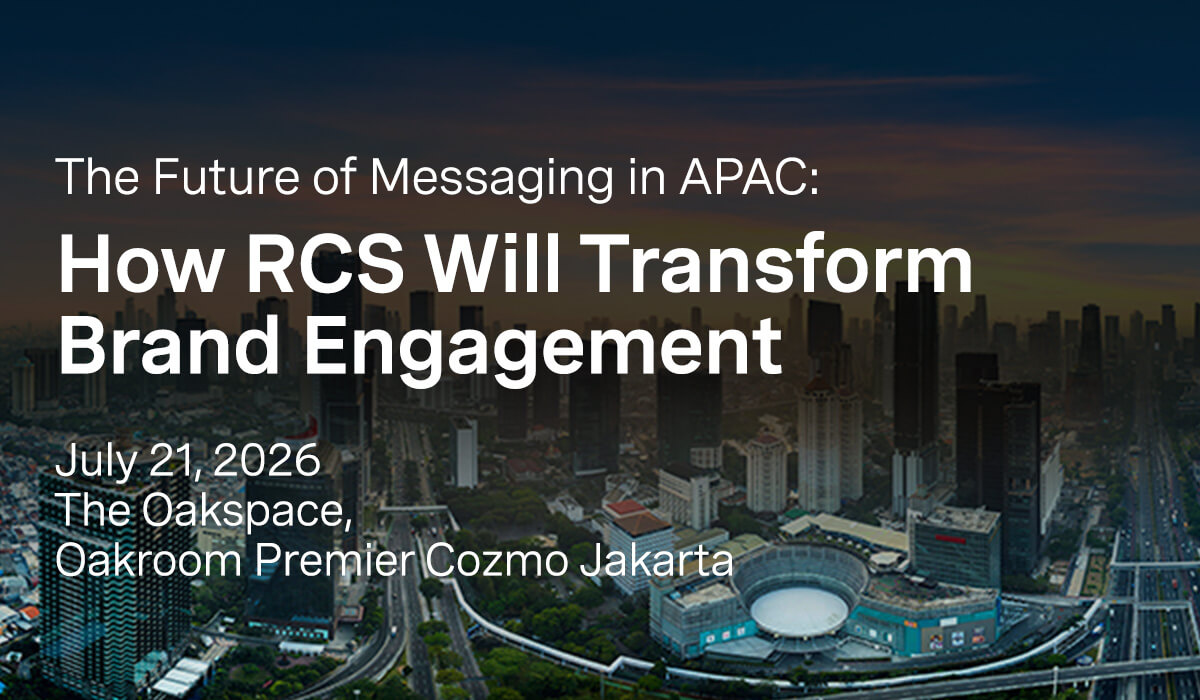
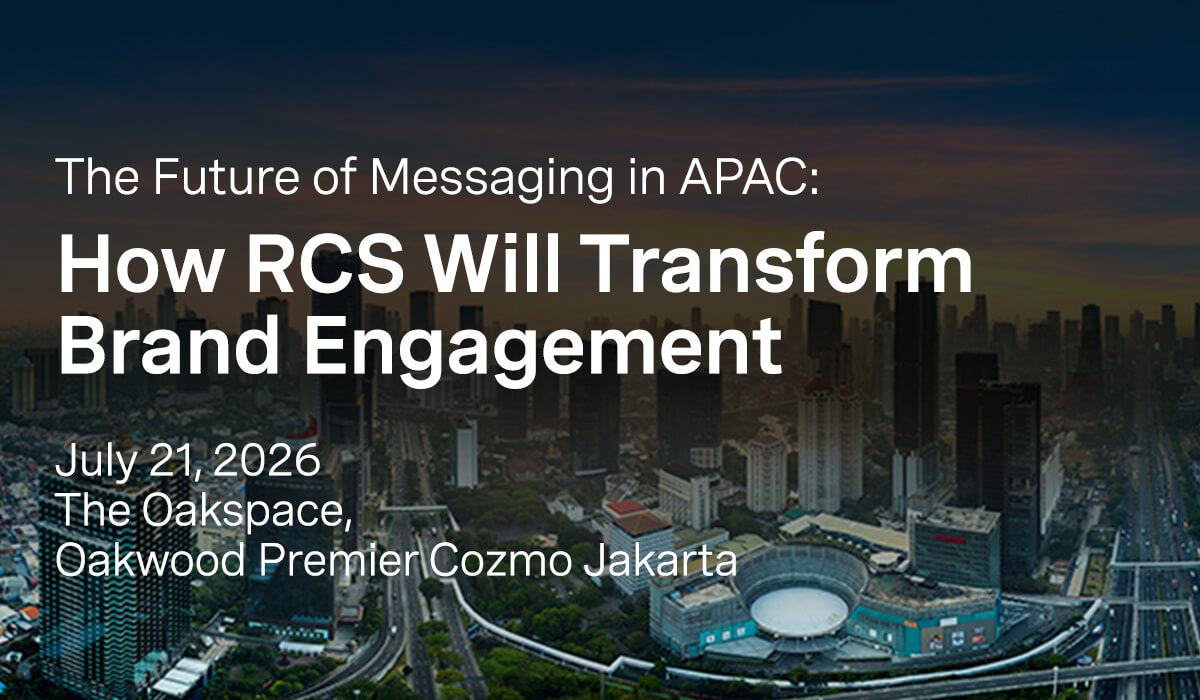
4 days

Changed region(s): [[0.0925, 0.78, 0.6167, 0.84]]

diff --git a/index.html b/index.html
@@ -1,4 +1,4 @@
-<!doctype html><html lang="en" dir="ltr" xmlns="http://www.w3.org/1999/xhtml" xmlns:v="urn:schemas-microsoft-com:vml" xmlns:o="urn:schemas-microsoft-com:office:office"><head><title>2 weeks reminder</title><!--[if !mso]><!--><meta http-equiv="X-UA-Compatible" content="IE=edge"><!--<![endif]--><meta http-equiv="Content-Type" content="text/html; charset=UTF-8"><meta name="viewport" content="width=device-width, initial-scale=1"><style type="text/css">
+<!doctype html><html lang="en" dir="ltr" xmlns="http://www.w3.org/1999/xhtml" xmlns:v="urn:schemas-microsoft-com:vml" xmlns:o="urn:schemas-microsoft-com:office:office"><head><title>Reminder</title><!--[if !mso]><!--><meta http-equiv="X-UA-Compatible" content="IE=edge"><!--<![endif]--><meta http-equiv="Content-Type" content="text/html; charset=UTF-8"><meta name="viewport" content="width=device-width, initial-scale=1"><style type="text/css">
       #outlook a { padding:0; }
       body { margin:0;padding:0;-webkit-text-size-adjust:100%;-ms-text-size-adjust:100%; }
       table, td { border-collapse:collapse;mso-table-lspace:0pt;mso-table-rspace:0pt; }
@@ -122,7 +122,7 @@
           padding-right: 20px !important;
         }
       }
-    </style><meta name="color-scheme" content="light"><meta name="supported-color-schemes" content="light"></head><body class="body-wrapper" style="word-spacing:normal;background-color:#ffffff;"> <div aria-label="2 weeks reminder" aria-roledescription="email" role="article" lang="en" dir="ltr" style="word-spacing:normal;background-color:#ffffff;"> <!--[if mso | IE]><table align="center" border="0" cellpadding="0" cellspacing="0" class="" role="presentation" style="width:600px;" width="600" ><tr><td style="line-height:0px;font-size:0px;mso-line-height-rule:exactly;"><![endif]--> <div style="margin:0px auto;max-width:600px;"> <table align="center" border="0" cellpadding="0" cellspacing="0" role="presentation" style="width:100%;"> <tbody> <tr> <td style="direction:ltr;font-size:0px;padding:0;text-align:center;"> <!--[if mso | IE]><table role="presentation" border="0" cellpadding="0" cellspacing="0"><tr><td class="" style="vertical-align:top;width:600px;" ><![endif]--> <div class="mj-column-per-100 mj-outlook-group-fix" style="font-size:0px;text-align:left;direction:ltr;display:inline-block;vertical-align:top;width:100%;"> <table border="0" cellpadding="0" cellspacing="0" role="presentation" width="100%"> <tbody> <tr> <td style="vertical-align:top;padding:0;"> <table border="0" cellpadding="0" cellspacing="0" role="presentation" width="100%"> <tbody> <tr> <td align="right" style="font-size:0px;padding:10px;word-break:break-word;"> <div style="font-family:Roboto, sans-serif;font-size:12px;line-height:22px;text-align:right;color:#A1A1A1;">No images? <webversion style="color: #a1a1a1;
+    </style><meta name="color-scheme" content="light"><meta name="supported-color-schemes" content="light"></head><body class="body-wrapper" style="word-spacing:normal;background-color:#ffffff;"> <div aria-label="Reminder" aria-roledescription="email" role="article" lang="en" dir="ltr" style="word-spacing:normal;background-color:#ffffff;"> <!--[if mso | IE]><table align="center" border="0" cellpadding="0" cellspacing="0" class="" role="presentation" style="width:600px;" width="600" ><tr><td style="line-height:0px;font-size:0px;mso-line-height-rule:exactly;"><![endif]--> <div style="margin:0px auto;max-width:600px;"> <table align="center" border="0" cellpadding="0" cellspacing="0" role="presentation" style="width:100%;"> <tbody> <tr> <td style="direction:ltr;font-size:0px;padding:0;text-align:center;"> <!--[if mso | IE]><table role="presentation" border="0" cellpadding="0" cellspacing="0"><tr><td class="" style="vertical-align:top;width:600px;" ><![endif]--> <div class="mj-column-per-100 mj-outlook-group-fix" style="font-size:0px;text-align:left;direction:ltr;display:inline-block;vertical-align:top;width:100%;"> <table border="0" cellpadding="0" cellspacing="0" role="presentation" width="100%"> <tbody> <tr> <td style="vertical-align:top;padding:0;"> <table border="0" cellpadding="0" cellspacing="0" role="presentation" width="100%"> <tbody> <tr> <td align="right" style="font-size:0px;padding:10px;word-break:break-word;"> <div style="font-family:Roboto, sans-serif;font-size:12px;line-height:22px;text-align:right;color:#A1A1A1;">No images? <webversion style="color: #a1a1a1;
               text-decoration: underline;
               font-family: Roboto, sans-serif;
               font-size: 12px;
@@ -136,7 +136,7 @@
                 line-height: 22px;
                 color: #a1a1a1;
                 text-decoration: underline;
-                cursor: pointer;">Click here</span> </webversion></div> </td> </tr> </tbody> </table> </td> </tr> </tbody> </table> </div> <!--[if mso | IE]></td></tr></table><![endif]--> </td> </tr> </tbody> </table> </div> <!--[if mso | IE]></td></tr></table><table align="center" border="0" cellpadding="0" cellspacing="0" class="" role="presentation" style="width:600px;" width="600" ><tr><td style="line-height:0px;font-size:0px;mso-line-height-rule:exactly;"><![endif]--> <div style="margin:0px auto;max-width:600px;"> <table align="center" border="0" cellpadding="0" cellspacing="0" role="presentation" style="width:100%;"> <tbody> <tr> <td style="direction:ltr;font-size:0px;padding:0;text-align:center;"> <!--[if mso | IE]><table role="presentation" border="0" cellpadding="0" cellspacing="0"><tr><td class="" style="vertical-align:top;width:600px;" ><![endif]--> <div class="mj-column-per-100 mj-outlook-group-fix" style="font-size:0px;text-align:left;direction:ltr;display:inline-block;vertical-align:top;width:100%;"> <table border="0" cellpadding="0" cellspacing="0" role="presentation" width="100%"> <tbody> <tr> <td style="vertical-align:top;padding:0;"> <table border="0" cellpadding="0" cellspacing="0" role="presentation" width="100%"> <tbody> <tr> <td align="center" style="font-size:0px;padding:0;word-break:break-word;"> <table border="0" cellpadding="0" cellspacing="0" role="presentation" style="border-collapse:collapse;border-spacing:0px;"> <tbody> <tr> <td style="width:600px;"> <a href="https://indosat.vonagefuturesecure.com/" target="_blank"> <img alt="How RCS will transform Brand engagement" src="images/21Header.jpg" style="border:0;display:block;outline:none;text-decoration:none;height:auto;width:100%;font-size:13px;" width="600" height="auto"> </a> </td> </tr> </tbody> </table> </td> </tr> </tbody> </table> </td> </tr> </tbody> </table> </div> <!--[if mso | IE]></td></tr></table><![endif]--> </td> </tr> </tbody> </table> </div> <!--[if mso | IE]></td></tr></table><table align="center" border="0" cellpadding="0" cellspacing="0" class="" role="presentation" style="width:600px;" width="600" ><tr><td style="line-height:0px;font-size:0px;mso-line-height-rule:exactly;"><![endif]--> <div style="margin:0px auto;max-width:600px;"> <table align="center" border="0" cellpadding="0" cellspacing="0" role="presentation" style="width:100%;"> <tbody> <tr> <td style="direction:ltr;font-size:0px;padding:0;text-align:center;"> <!--[if mso | IE]><table role="presentation" border="0" cellpadding="0" cellspacing="0"><tr><td class="fluid-padding-outlook" style="vertical-align:top;width:600px;" ><![endif]--> <div class="fluid-padding mj-column-per-100 mj-outlook-group-fix" style="font-size:0px;text-align:left;direction:ltr;display:inline-block;vertical-align:top;width:100%;"> <table border="0" cellpadding="0" cellspacing="0" role="presentation" width="100%"> <tbody> <tr> <td style="vertical-align:top;padding:60px 30px 0 30px;"> <table border="0" cellpadding="0" cellspacing="0" role="presentation" width="100%"> <tbody> <tr> <td align="left" style="font-size:0px;padding:0;padding-bottom:30px;word-break:break-word;"> <div style="font-family:Roboto, sans-serif;font-size:16px;line-height:26px;text-align:left;color:#000000;">Dear [firstname,fallback=],</div> </td> </tr> <tr> <td align="left" style="font-size:0px;padding:0;padding-bottom:30px;word-break:break-word;"> <div style="font-family:Roboto, sans-serif;font-size:16px;line-height:26px;text-align:left;color:#000000;">Just a reminder that <b> The Future of Messaging in APAC: How RCS Will Transform Brand Engagement </b> is happening in <b>two weeks</b>.</div> </td> </tr> <tr> <td align="left" style="font-size:0px;padding:0;padding-bottom:30px;word-break:break-word;"> <div style="font-family:Roboto, sans-serif;font-size:16px;line-height:36px;text-align:left;color:#000000;"><b>Event details:</b><br> 📅&nbsp;&nbsp;21 July 2026<br> 🕙&nbsp;&nbsp;10:00 AM - 3:00 PM<br> 📍&nbsp;&nbsp;The Oakspace, Oakroom Premier Cozmo Jakarta</div> </td> </tr> <tr> <td align="left" style="font-size:0px;padding:0;word-break:break-word;"> <div style="font-family:Roboto, sans-serif;font-size:16px;font-weight:bold;line-height:26px;text-align:left;color:#000000;">This invite-only event will cover:</div> </td> </tr> </tbody> </table> </td> </tr> </tbody> </table> </div> <!--[if mso | IE]></td></tr></table><![endif]--> </td> </tr> </tbody> </table> </div> <!--[if mso | IE]></td></tr></table><table align="center" border="0" cellpadding="0" cellspacing="0" class="" role="presentation" style="width:600px;" width="600" ><tr><td style="line-height:0px;font-size:0px;mso-line-height-rule:exactly;"><![endif]--> <div style="margin:0px auto;max-width:600px;"> <table align="center" border="0" cellpadding="0" cellspacing="0" role="presentation" style="width:100%;"> <tbody> <tr> <td style="direction:ltr;font-size:0px;padding:0;text-align:center;"> <!--[if mso | IE]><table role="presentation" border="0" cellpadding="0" cellspacing="0"><tr><td class="fluid-padding-outlook" style="vertical-align:top;width:600px;" ><![endif]--> <div class="fluid-padding mj-column-per-100 mj-outlook-group-fix" style="font-size:0px;text-align:left;direction:ltr;display:inline-block;vertical-align:top;width:100%;"> <table border="0" cellpadding="0" cellspacing="0" role="presentation" width="100%"> <tbody> <tr> <td style="vertical-align:top;padding:0 30px 30px 30px;"> <table border="0" cellpadding="0" cellspacing="0" role="presentation" width="100%"> <tbody> <tr> <td align="left" style="font-size:0px;padding:0;word-break:break-word;"> <div style="font-family:Helvetica, Roboto, sans-serif;font-size:16px;line-height:22px;text-align:left;color:#000000;"><mj-table style="width: 100%;
+                cursor: pointer;">Click here</span> </webversion></div> </td> </tr> </tbody> </table> </td> </tr> </tbody> </table> </div> <!--[if mso | IE]></td></tr></table><![endif]--> </td> </tr> </tbody> </table> </div> <!--[if mso | IE]></td></tr></table><table align="center" border="0" cellpadding="0" cellspacing="0" class="" role="presentation" style="width:600px;" width="600" ><tr><td style="line-height:0px;font-size:0px;mso-line-height-rule:exactly;"><![endif]--> <div style="margin:0px auto;max-width:600px;"> <table align="center" border="0" cellpadding="0" cellspacing="0" role="presentation" style="width:100%;"> <tbody> <tr> <td style="direction:ltr;font-size:0px;padding:0;text-align:center;"> <!--[if mso | IE]><table role="presentation" border="0" cellpadding="0" cellspacing="0"><tr><td class="" style="vertical-align:top;width:600px;" ><![endif]--> <div class="mj-column-per-100 mj-outlook-group-fix" style="font-size:0px;text-align:left;direction:ltr;display:inline-block;vertical-align:top;width:100%;"> <table border="0" cellpadding="0" cellspacing="0" role="presentation" width="100%"> <tbody> <tr> <td style="vertical-align:top;padding:0;"> <table border="0" cellpadding="0" cellspacing="0" role="presentation" width="100%"> <tbody> <tr> <td align="center" style="font-size:0px;padding:0;word-break:break-word;"> <table border="0" cellpadding="0" cellspacing="0" role="presentation" style="border-collapse:collapse;border-spacing:0px;"> <tbody> <tr> <td style="width:600px;"> <a href="https://indosat.vonagefuturesecure.com/" target="_blank"> <img alt="How RCS will transform Brand engagement" src="images/21Header.jpg" style="border:0;display:block;outline:none;text-decoration:none;height:auto;width:100%;font-size:13px;" width="600" height="auto"> </a> </td> </tr> </tbody> </table> </td> </tr> </tbody> </table> </td> </tr> </tbody> </table> </div> <!--[if mso | IE]></td></tr></table><![endif]--> </td> </tr> </tbody> </table> </div> <!--[if mso | IE]></td></tr></table><table align="center" border="0" cellpadding="0" cellspacing="0" class="" role="presentation" style="width:600px;" width="600" ><tr><td style="line-height:0px;font-size:0px;mso-line-height-rule:exactly;"><![endif]--> <div style="margin:0px auto;max-width:600px;"> <table align="center" border="0" cellpadding="0" cellspacing="0" role="presentation" style="width:100%;"> <tbody> <tr> <td style="direction:ltr;font-size:0px;padding:0;text-align:center;"> <!--[if mso | IE]><table role="presentation" border="0" cellpadding="0" cellspacing="0"><tr><td class="fluid-padding-outlook" style="vertical-align:top;width:600px;" ><![endif]--> <div class="fluid-padding mj-column-per-100 mj-outlook-group-fix" style="font-size:0px;text-align:left;direction:ltr;display:inline-block;vertical-align:top;width:100%;"> <table border="0" cellpadding="0" cellspacing="0" role="presentation" width="100%"> <tbody> <tr> <td style="vertical-align:top;padding:60px 30px 0 30px;"> <table border="0" cellpadding="0" cellspacing="0" role="presentation" width="100%"> <tbody> <tr> <td align="left" style="font-size:0px;padding:0;padding-bottom:30px;word-break:break-word;"> <div style="font-family:Roboto, sans-serif;font-size:16px;line-height:26px;text-align:left;color:#000000;">Dear [firstname,fallback=],</div> </td> </tr> <tr> <td align="left" style="font-size:0px;padding:0;padding-bottom:30px;word-break:break-word;"> <div style="font-family:Roboto, sans-serif;font-size:16px;line-height:26px;text-align:left;color:#000000;">Just a reminder that <b> The Future of Messaging in APAC: How RCS Will Transform Brand Engagement </b> is happening in <b>4 days</b>.</div> </td> </tr> <tr> <td align="left" style="font-size:0px;padding:0;padding-bottom:30px;word-break:break-word;"> <div style="font-family:Roboto, sans-serif;font-size:16px;line-height:36px;text-align:left;color:#000000;"><b>Event details:</b><br> 📅&nbsp;&nbsp;21 July 2026<br> 🕙&nbsp;&nbsp;10:00 AM - 3:00 PM<br> 📍&nbsp;&nbsp;The Oakspace, Oakwood Premier Cozmo Jakarta</div> </td> </tr> <tr> <td align="left" style="font-size:0px;padding:0;word-break:break-word;"> <div style="font-family:Roboto, sans-serif;font-size:16px;font-weight:bold;line-height:26px;text-align:left;color:#000000;">This invite-only event will cover:</div> </td> </tr> </tbody> </table> </td> </tr> </tbody> </table> </div> <!--[if mso | IE]></td></tr></table><![endif]--> </td> </tr> </tbody> </table> </div> <!--[if mso | IE]></td></tr></table><table align="center" border="0" cellpadding="0" cellspacing="0" class="" role="presentation" style="width:600px;" width="600" ><tr><td style="line-height:0px;font-size:0px;mso-line-height-rule:exactly;"><![endif]--> <div style="margin:0px auto;max-width:600px;"> <table align="center" border="0" cellpadding="0" cellspacing="0" role="presentation" style="width:100%;"> <tbody> <tr> <td style="direction:ltr;font-size:0px;padding:0;text-align:center;"> <!--[if mso | IE]><table role="presentation" border="0" cellpadding="0" cellspacing="0"><tr><td class="fluid-padding-outlook" style="vertical-align:top;width:600px;" ><![endif]--> <div class="fluid-padding mj-column-per-100 mj-outlook-group-fix" style="font-size:0px;text-align:left;direction:ltr;display:inline-block;vertical-align:top;width:100%;"> <table border="0" cellpadding="0" cellspacing="0" role="presentation" width="100%"> <tbody> <tr> <td style="vertical-align:top;padding:0 30px 30px 30px;"> <table border="0" cellpadding="0" cellspacing="0" role="presentation" width="100%"> <tbody> <tr> <td align="left" style="font-size:0px;padding:0;word-break:break-word;"> <div style="font-family:Helvetica, Roboto, sans-serif;font-size:16px;line-height:22px;text-align:left;color:#000000;"><mj-table style="width: 100%;
               border-collapse: collapse;
               mso-table-lspace: 0;
               mso-table-rspace: 0;" cellpadding="0" cellspacing="0"> <tr> <td style="font-family: Robota, sans-serif;